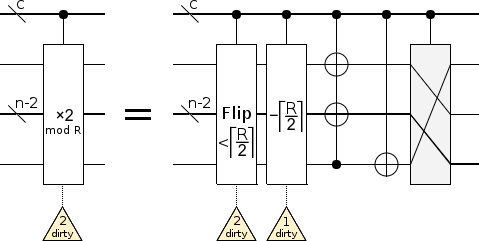
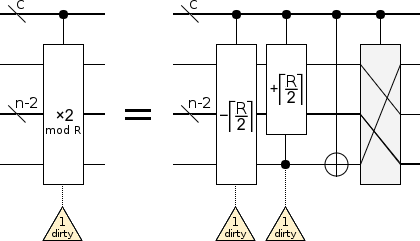
Better modular double

diff --git a/doc/paper.tex b/doc/paper.tex
@@ -148,7 +148,7 @@ We condition the first modular addition on the most significant bit of the input
 (The more significant bits go first because their effects must be hit by more left-shifts.)
 See figure \ref{fig:controlled-modular-scale-accumulate}.
 
-The conditional offset operations need one dirty bit, and the modular doublings need two, but for non-trivial $n$ there are more than enough unused bits available to borrow, so the circuit as a whole doesn't require any dirty bits.
+The conditional offset and modular doubling operations need one dirty bit, but for non-trivial $n$ there are more than enough unused bits available to borrow, so the circuit as a whole doesn't require any dirty bits.
 
 Note that the modular doublings require $R$ to be odd, since otherwise the operation would be irreversible and non-unitary.
 However, given that in the intended use case $R$ is a number to be factored, it is reasonable to require callers to have factored out multiples of two beforehand.
@@ -170,8 +170,8 @@ A decrement is just a reversed increment, a division is just a reversed multipli
 
 \subsection{Modular Doubling}
 
-To multiply a register by 2 modulo an odd $R$, we use pivot-flips (see section \ref{sec:pivot-flips}) and subtraction to align the two halves of the input space to MSB boundaries.
-After the two halves are aligned, a left-rotate completes the operation.
+To multiply a register by 2 modulo an odd $R$, we use controlled offsets and nots to shift the top half of the input space until it starts on the MSB boundary.
+Once that's done, a left-rotate completes the operation by turning the MSB into the LSB (converting the alignment into interleaving).
 See figure \ref{fig:modular-double}.
 
 \begin{figure}
@@ -180,7 +180,7 @@ See figure \ref{fig:modular-double}.
   \caption{\em
     Controlled modular doubling in $O(c + n \lg n)$ gates, $O(c + n)$ depth, with 2 dirty ancilla.
     $R$ must be odd.
-    Uses 2 dirty ancilla, $O(c + n \lg n)$ gates, and $O(c + n)$ depth where $c$ is the number of controls and $n$ is the register size.
+    Uses 1 dirty ancilla, $O(c + n \lg n)$ gates, and $O(c + n)$ depth where $c$ is the number of controls and $n$ is the register size.
   }
   \label{fig:modular-double}
 \end{figure}
